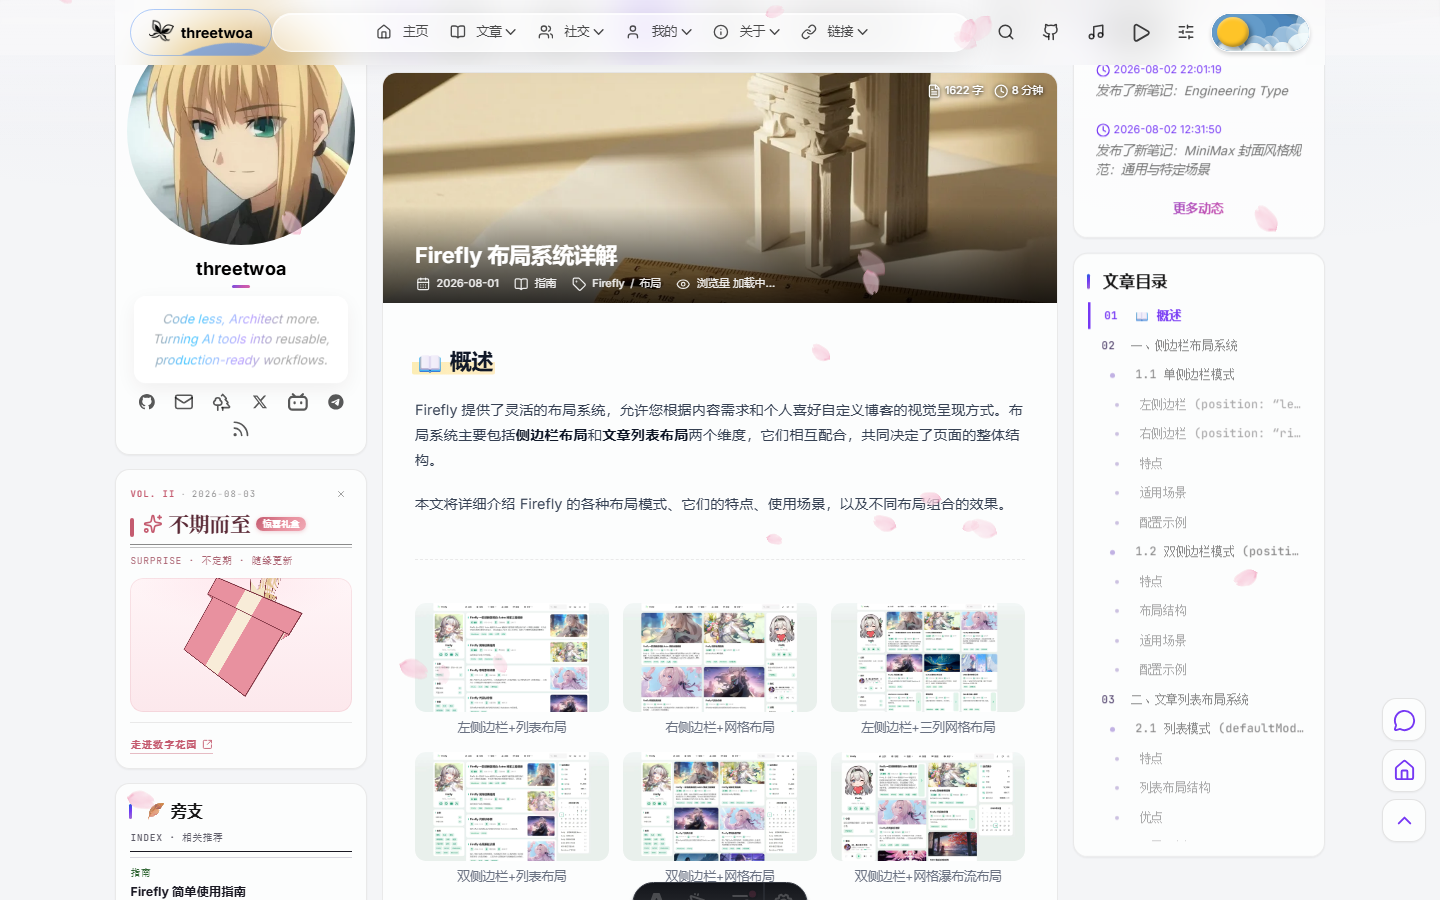
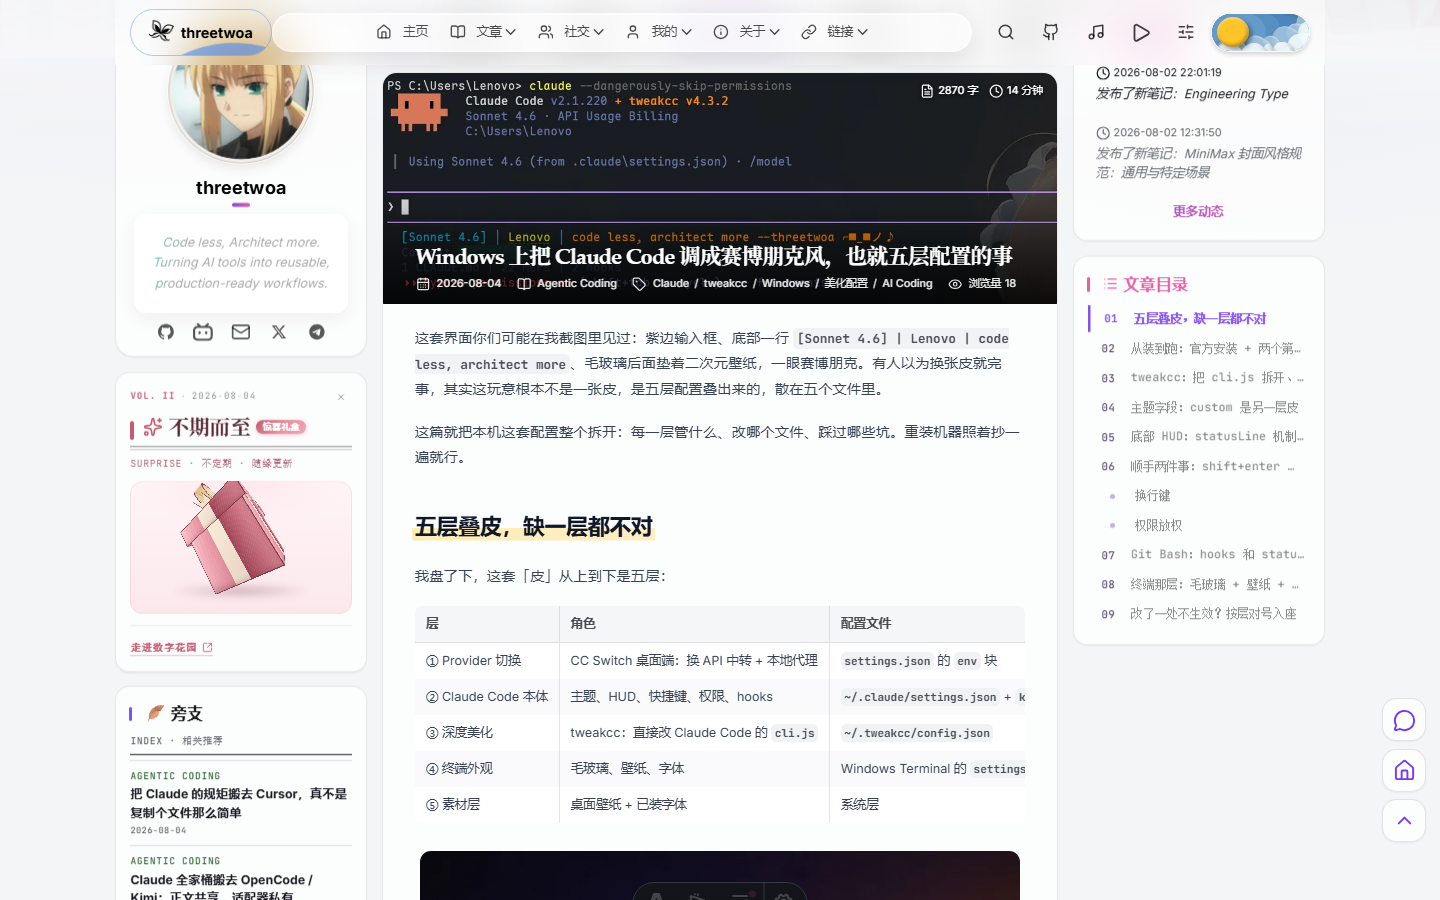
docs(readme): 刷新 showcase 截图与 capture 脚本
改用 localhost 抓取，并更新 README 展示图。

diff --git a/scripts/capture-readme-showcase.py b/scripts/capture-readme-showcase.py
@@ -1,7 +1,8 @@
 """Capture showcase screenshots from local Firefly blog (Playwright).
 
-前置：`pnpm dev` 已在 http://127.0.0.1:4321 跑着。
-用法：`python scripts/capture-readme-showcase.py`
+前置：`pnpm dev` 已在 http://localhost:4321 跑着（本机多为 [::1]）。
+用法：完整路径调用 python，例如：
+`& "$env:LOCALAPPDATA\Programs\Python\Python313\python.exe" scripts\capture-readme-showcase.py`
 """
 from __future__ import annotations
 
@@ -9,7 +10,8 @@ from pathlib import Path
 
 from playwright.sync_api import sync_playwright
 
-BASE = "http://127.0.0.1:4321"
+# Astro 在本机常只监听 [::1]；127.0.0.1 会连不上
+BASE = "http://localhost:4321"
 OUT = Path(__file__).resolve().parent.parent / "assets" / "images" / "readme"
 OUT.mkdir(parents=True, exist_ok=True)
 
@@ -19,7 +21,7 @@ SHOTS: list[tuple[str, str, dict[str, str] | None, str | None]] = [
     # 滚过英雄横幅，露出正文 + Index-First TOC
     (
         "showcase-post.png",
-        "/posts/guide/firefly-layout-system/",
+        "/posts/claude-code-windows-beautify/",
         None,
         "#post-container",
     ),

diff --git a/README.md b/README.md
@@ -117,7 +117,7 @@ UI 大改后可以使用 `scripts/capture-readme-showcase.py` 重新截取展示
       <a href="assets/images/readme/showcase-post.png"><img alt="Post" src="assets/images/readme/showcase-post.png" width="100%"></a>
       <br><strong>Post</strong><br>
       <sub>Index-First TOC · 封面 · Markdown 扩展</sub><br>
-      <a href="https://fork-firefly.vercel.app/posts/guide/firefly-layout-system/">Open</a>
+      <a href="https://fork-firefly.vercel.app/posts/claude-code-windows-beautify/">Open</a>
     </td>
     <td width="33%" valign="top" align="center">
       <a href="assets/images/readme/showcase-dynamic.png"><img alt="Dynamic" src="assets/images/readme/showcase-dynamic.png" width="100%"></a>
